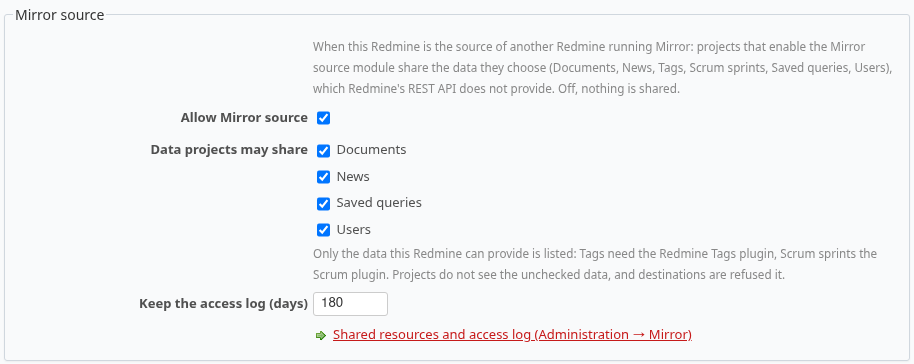
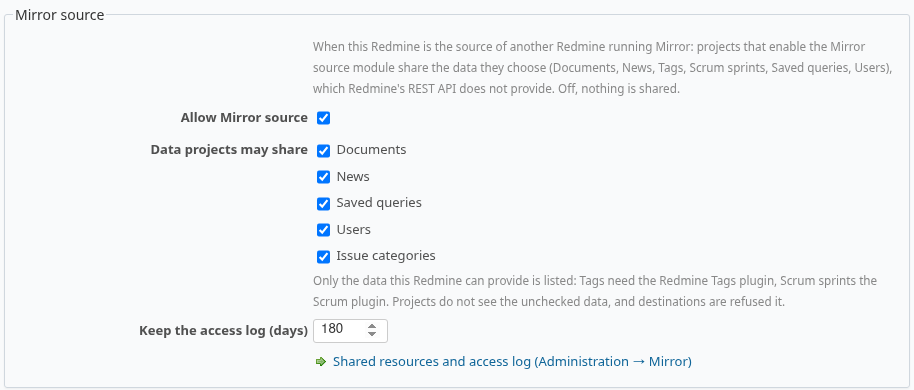
Offer one-click fixes for the settings a configuration still needs
Once the source references are read, the Connection tab and the Mirror page
checklist offer, under the Redmine permission each one uses: enable a project module
a selected Mirror module needs, or unselect those Mirror modules; enable mapped
trackers or a mapped custom field in the project; select the Members, Issue
categories or Versions module when the source project has such data.

The catalog now keeps the source project's enabled modules and a count of its
members, categories and versions. A Mirror module whose module is not enabled in the
source project is marked in the module list and can only be unselected (Agile data
comes from another plugin there and is not flagged).

Changed region(s): [[0.1532, 0.0907, 0.9803, 0.8764], [0.0, 0.0302, 1.0, 0.0604], [0.337, 0.9066, 0.7659, 0.9368]]

diff --git a/test/integration/mirror_setup_fixes_test.rb b/test/integration/mirror_setup_fixes_test.rb
@@ -1,0 +1,108 @@
+# frozen_string_literal: true
+# File: redmine_mirror/test/integration/mirror_setup_fixes_test.rb
+#
+# Redmine Mirror - modular project import and asynchronous replication.
+# SPDX-License-Identifier: GPL-2.0-or-later
+#
+# This program is free software: you can redistribute it and/or modify it
+# under the terms of the GNU General Public License as published by the
+# Free Software Foundation, either version 2 of the License, or (at your
+# option) any later version.
+#
+# This program is distributed in the hope that it will be useful,
+# but WITHOUT ANY WARRANTY; without even the implied warranty of
+# MERCHANTABILITY or FITNESS FOR A PARTICULAR PURPOSE. See LICENSE for details.
+# The Mirror tab of the project settings: sub-tabs, mappings and permissions.
+
+require_relative "../test_helper"
+class MirrorSetupFixesTest < Redmine::IntegrationTest
+  fixtures :projects, :users, :email_addresses, :roles, :members, :member_roles, :enabled_modules, :trackers,
+    :projects_trackers, :issue_statuses, :enumerations, :custom_fields, :custom_fields_projects, :custom_fields_trackers
+
+  def setup
+    @project = Project.find(1)
+    @project.enable_module!(:mirror)
+    @project.disable_module!(:documents)
+    @setting = MirrorProjectSetting.new(project: @project, source_url: "https://source.example/redmine", source_project_id: 12)
+    @setting.selected_modules = %w[issue_tracking wiki documents]
+    @setting.api_key = "private-api-key"
+    # The source project has no wiki; it has members, and categories this account cannot list.
+    @setting.source_catalog = { "tracker" => { "1" => "Bug", "2" => "Remote tracker" }, "tracker_used" => %w[1 2],
+      "source_modules" => %w[issue_tracking documents], "source_inventory" => { "project_members" => 3, "issue_categories" => nil, "project_versions" => 0 } }
+    @setting.catalog_status = "ready"
+    @setting.save!
+    # Tracker 3 (Support request), mapped, then no longer used by the project.
+    @project.mirror_reference_mappings.create!(reference_type: "tracker", source_id: 2, mode: "existing", destination_id: 3)
+    @project.update!(tracker_ids: [1, 2])
+  end
+
+  def fix(params)
+    post "/projects/ecookbook/mirror/settings/fix", params: params.merge(back_url: "/projects/ecookbook/settings/mirror")
+  end
+
+  def test_the_connection_tab_proposes_one_click_fixes
+    log_user("admin", "admin")
+    get "/projects/ecookbook/settings/mirror"
+    assert_response :success
+    assert_select "#mirror-checklist li", text: /Wiki module is not enabled in the source project/
+    assert_select "#mirror-checklist form.mirror-fix-form input[name=target][value=wiki]"
+    assert_select "#mirror-checklist li", text: /Documents module is disabled on this project/ do
+      assert_select "button[data-fix=enable_module], input[data-fix=enable_module]"
+    end
+    assert_select "#mirror-checklist li", text: /Support request/
+    assert_select "#mirror-checklist li", text: /Members \(3\)/
+    assert_select "#mirror-checklist li", text: /Issue categories/, count: 0
+    assert_select "label.mirror-module-source-off", text: /Wiki/
+  end
+
+  def test_fixes_enable_unselect_and_select
+    log_user("admin", "admin")
+    fix(fix: "enable_module", target: "documents")
+    assert_redirected_to "/projects/ecookbook/settings/mirror"
+    assert @project.reload.module_enabled?(:documents)
+    fix(fix: "unselect_module", target: "wiki")
+    assert_equal [302, nil, "Successful update."], [response.status, flash[:error], flash[:notice]]
+    assert_equal %w[users issue_tracking documents], @setting.reload.selected_modules
+    fix(fix: "enable_trackers")
+    assert_includes @project.reload.tracker_ids, 3
+    fix(fix: "select_module", target: "project_members")
+    assert_includes @setting.reload.selected_modules, "project_members"
+    assert_equal "pending", @setting.catalog_status
+    # A module unknown, or one that would leave nothing to import.
+    fix(fix: "select_module", target: "nothing")
+    assert flash[:error]
+    fix(fix: "enable_module", target: "boards")
+    assert flash[:error]
+  end
+
+  def test_mapped_fields_are_enabled_in_the_project
+    field = IssueCustomField.create!(name: "Remote only", field_format: "string", is_for_all: false, trackers: Tracker.all, projects: [@project])
+    @setting.update!(selected_modules: %w[issue_tracking issue_custom_fields], source_catalog: @setting.source_catalog.merge("custom_field" => { "40" => "Remote only" }))
+    @project.mirror_reference_mappings.create!(reference_type: "custom_field", source_id: 40, mode: "existing", destination_id: field.id)
+    # The field was later removed from the project.
+    field.projects.delete(@project)
+    log_user("admin", "admin")
+    get "/projects/ecookbook/settings/mirror"
+    assert_select "#mirror-checklist input[name=target][value='#{field.id}']"
+    fix(fix: "enable_custom_field", target: field.id)
+    assert_includes @project.reload.issue_custom_field_ids, field.id
+    other = IssueCustomField.create!(name: "Not mapped", field_format: "string", is_for_all: false)
+    fix(fix: "enable_custom_field", target: other.id)
+    assert flash[:error]
+    refute_includes @project.reload.issue_custom_field_ids, other.id
+  end
+
+  # Each fix needs the permission Redmine itself asks for.
+  def test_fixes_need_the_redmine_permissions
+    Role.find(1).add_permission!(:manage_mirror)
+    Role.find(1).remove_permission!(:edit_project)
+    Role.find(1).remove_permission!(:select_project_modules)
+    log_user("jsmith", "jsmith")
+    fix(fix: "enable_trackers")
+    assert_response 403
+    refute_includes @project.reload.tracker_ids, 3
+    fix(fix: "enable_module", target: "documents")
+    assert_response 403
+    refute @project.reload.module_enabled?(:documents)
+  end
+end

diff --git a/app/helpers/mirror_helper.rb b/app/helpers/mirror_helper.rb
@@ -317,10 +317,23 @@ module MirrorHelper
     catalog = setting.source_catalog
     mapped = project.mirror_reference_mappings.to_a
     ai_config = MirrorAiConfig.current
+    source_modules = catalog["source_modules"]
+    checked_modules = []
     setting.adapters.each do |adapter|
-      if adapter.project_module && !project.module_enabled?(adapter.project_module)
-        items << { text: l(:text_mirror_project_module_disabled, module: l_or_humanize(adapter.project_module, prefix: "project_module_")),
-          actions: [[l(:label_mirror_enable_project_module), User.current.allowed_to?(:select_project_modules, project) && settings_project_path(project, tab: "modules")]] }
+      name = adapter.project_module
+      if name && !checked_modules.include?(name)
+        checked_modules << name
+        label = l_or_humanize(name, prefix: "project_module_")
+        source_name = adapter.source_project_module
+        if source_modules && source_name && !source_modules.include?(source_name.to_s)
+          items << { text: l(:text_mirror_source_module_disabled, module: label), actions: [],
+            buttons: [[l(:button_mirror_unselect_modules), { fix: "unselect_module", target: name }, manager]] }
+        elsif !project.module_enabled?(name)
+          items << { text: l(:text_mirror_project_module_disabled, module: label),
+            actions: [[l(:label_mirror_enable_project_module), User.current.allowed_to?(:select_project_modules, project) && settings_project_path(project, tab: "modules")]],
+            buttons: [[l(:button_mirror_enable_project_module_now), { fix: "enable_module", target: name }, User.current.allowed_to?(:select_project_modules, project)],
+                      [l(:button_mirror_unselect_modules), { fix: "unselect_module", target: name }, manager]] }
+        end
       end
       adapter.mapping_tables.each do |table|
         next if table.respond_to?(:unmapped_allowed?) && table.unmapped_allowed?(setting)
@@ -338,6 +351,15 @@ module MirrorHelper
         end
       end
     end
+    editor = User.current.allowed_to?(:edit_project, project)
+    # Trackers the source issues use, mapped to a local tracker this project does not use.
+    trackers = mapped.select { |row| row.reference_type == "tracker" && row.mode == "existing" && !project.tracker_ids.include?(row.destination_id) &&
+      (catalog["tracker_used"].nil? || catalog["tracker_used"].include?(row.source_id.to_s)) }.map(&:destination_id).uniq
+    if trackers.any? && setting.selected_modules.include?("issue_tracking")
+      items << { text: l(:text_mirror_trackers_disabled, names: Tracker.where(id: trackers).sorted.map(&:name).join(", ")),
+        actions: [[l(:label_mirror_guide_enable_in_project), editor && settings_project_path(project, tab: "issues")]],
+        buttons: [[l(:button_mirror_enable_trackers), { fix: "enable_trackers" }, editor]] }
+    end
     # Fields mapped to a local field that this project does not use.
     if setting.selected_modules.include?("issue_custom_fields")
       enabled = project.all_issue_custom_fields.map(&:id)
@@ -345,10 +367,23 @@ module MirrorHelper
         field = IssueCustomField.find_by(id: row.destination_id)
         next unless field
         items << { text: l(:text_mirror_guide_field_disabled, name: field.name),
-          actions: [[l(:label_mirror_guide_enable_in_project), User.current.allowed_to?(:edit_project, project) && settings_project_path(project, tab: "issues")]] }
+          actions: [[l(:label_mirror_guide_enable_in_project), editor && settings_project_path(project, tab: "issues")]],
+          buttons: [[l(:button_mirror_enable_field), { fix: "enable_custom_field", target: field.id }, editor]] }
       end
     end
-    items.each { |item| item[:actions] = item[:actions].select(&:last).uniq(&:first) }
+    # Data the source project has for a module not selected: members (when this project
+    # lets the user manage them), categories and versions.
+    catalog.fetch("source_inventory", {}).each do |key, count|
+      adapter = RedmineMirror::REGISTRY[key]
+      next unless count.to_i.positive? && adapter&.available? && !setting.selected_modules.include?(key)
+      next if key == "project_members" && !User.current.allowed_to?(:manage_members, project)
+      items << { text: l(:text_mirror_source_has_data, module: l(adapter.label), count: count), actions: [],
+        buttons: [[l(:button_mirror_select_module), { fix: "select_module", target: key }, manager]] }
+    end
+    items.each do |item|
+      item[:actions] = item[:actions].select(&:last).uniq(&:first)
+      item[:buttons] = Array(item[:buttons]).select(&:last).map { |label, params, _| [label, params] }
+    end
   end
 
   # Administration pages that create a missing local reference.

diff --git a/app/controllers/mirror_settings_controller.rb b/app/controllers/mirror_settings_controller.rb
@@ -105,6 +105,52 @@ class MirrorSettingsController < ApplicationController
     redirect_to configuration_path
   end
 
+  # One-click fixes of the checklist, each under the permission Redmine itself asks for:
+  # enable a project module, or unselect the Mirror modules that need it; enable the
+  # mapped trackers or a mapped field in this project; select a module the source has
+  # data for. Back to where the person came from.
+  def fix_setup
+    return render_404 unless @setting.persisted?
+    case params[:fix]
+    when "enable_module"
+      name = params[:target].to_s
+      return deny_access unless User.current.allowed_to?(:select_project_modules, @project)
+      raise RedmineMirror::Error, "Unknown project module" unless @setting.adapters.any? { |adapter| adapter.project_module.to_s == name }
+      @project.enable_module!(name)
+    when "unselect_module"
+      name = params[:target].to_s
+      kept = @setting.selected_modules.select do |key|
+        RedmineMirror::REGISTRY[key] && RedmineMirror::REGISTRY.resolve([key]).none? { |adapter| adapter.project_module.to_s == name }
+      end
+      raise RedmineMirror::Error, l(:text_mirror_nothing_left_to_import) if kept.empty?
+      @setting.selected_modules = kept
+      @setting.save!
+    when "enable_trackers"
+      return deny_access unless User.current.allowed_to?(:edit_project, @project)
+      used = @setting.source_catalog["tracker_used"]
+      ids = @project.mirror_reference_mappings.where(reference_type: "tracker", mode: "existing").select { |row| used.nil? || used.include?(row.source_id.to_s) }.map(&:destination_id)
+      @project.trackers << (Tracker.where(id: ids).to_a - @project.trackers.to_a)
+    when "enable_custom_field"
+      return deny_access unless User.current.allowed_to?(:edit_project, @project)
+      field = IssueCustomField.find_by(id: params[:target])
+      raise RedmineMirror::Error, "Unknown custom field" unless field && @project.mirror_reference_mappings.where(reference_type: "custom_field", destination_id: field.id).exists?
+      @project.issue_custom_fields << field unless field.is_for_all? || @project.issue_custom_fields.include?(field)
+    when "select_module"
+      key = params[:target].to_s
+      raise RedmineMirror::Error, "Unknown module" unless RedmineMirror::REGISTRY[key]&.available? && RedmineMirror::REGISTRY[key].selectable?
+      @setting.selected_modules = @setting.selected_modules + [key]
+      @setting.save!
+      @setting.request_catalog_refresh!
+    else
+      return render_404
+    end
+    flash[:notice] = l(:notice_successful_update)
+    redirect_back_or_default configuration_path
+  rescue RedmineMirror::Error, ActiveRecord::RecordInvalid => error
+    flash[:error] = error.message
+    redirect_back_or_default configuration_path
+  end
+
   # Resolve the adapter and table from this project’s configuration, then validate
   # every submitted remote ID and local selection before committing the batch.
   def update_mappings

diff --git a/lib/redmine_mirror/source_catalog.rb b/lib/redmine_mirror/source_catalog.rb
@@ -25,8 +25,12 @@ module RedmineMirror
     # Preserve field metadata separately from labels for compatibility checks.
     # progress, when given, receives (step, steps, module key, records read so far).
     def fetch(progress: nil)
-      @client.get("projects/#{Integer(@project_id)}.json")
+      project = @client.get("projects/#{Integer(@project_id)}.json", "include" => "enabled_modules").fetch("project", {})
       tables = {}
+      # The source project's modules, so that the form and the checklist can tell which
+      # Mirror modules have data there; and what unselected modules would bring.
+      tables["source_modules"] = project["enabled_modules"].map { |entry| entry["name"].to_s } if project["enabled_modules"].is_a?(Array)
+      tables["source_inventory"] = inventory
       used = Hash.new { |hash, key| hash[key] = [] }
       formats = Hash.new(0)
       statistics = {}
@@ -90,6 +94,20 @@ module RedmineMirror
     end
 
     private
+
+    # Counts of members, categories and versions of the source project, each nil when
+    # the account cannot list them (or anything else goes wrong: it is only a hint). One
+    # small request each.
+    INVENTORY = { "project_members" => "memberships", "issue_categories" => "issue_categories", "project_versions" => "versions" }.freeze
+
+    def inventory
+      INVENTORY.to_h do |module_key, collection|
+        body = @client.get("projects/#{Integer(@project_id)}/#{collection}.json", "limit" => 1)
+        [module_key, (body["total_count"] || Array(body[collection]).size).to_i]
+      rescue StandardError
+        [module_key, nil]
+      end
+    end
 
     # Login, names, email and company of the source users, when the source project shares
     # them (Mirror source); else why not, shown in the Users tab. Never sent to AI.

diff --git a/test/documentation/configuration_test.rb b/test/documentation/configuration_test.rb
@@ -435,6 +435,25 @@ class MirrorConfigurationDocumentationTest < ApplicationSystemTestCase
     MirrorDefaultMapping.delete_all
   end
 
+
+  # Settings to complete after the connection, with their one-click fixes; restored
+  # afterwards for the mirror copy guide.
+  def test_22_setup_fixes
+    setting = project.mirror_project_setting
+    catalog = setting.source_catalog
+    setting.update!(source_catalog: catalog.merge("source_inventory" => { "project_members" => 4, "issue_categories" => 1, "project_versions" => 2 }))
+    project.disable_module!(:time_tracking)
+    visit "/projects/#{PROJECT}/settings/mirror"
+    assert_selector "#mirror-checklist .mirror-fix-form", minimum: 2
+    screenshot "44-setup-fixes", "#mirror-checklist"
+    click_button "Enable it in this project", match: :first
+    assert_selector "#flash_notice"
+    assert project.reload.module_enabled?(:time_tracking)
+  ensure
+    project.enable_module!(:time_tracking)
+    setting&.update!(source_catalog: catalog) if catalog
+  end
+
   FAKE_AI_SYNONYMS = { "New" => "To do", "In Progress" => "Doing", "Resolved" => "Done", "Feedback" => "Waiting for reply",
                        "Closed" => "Finished", "Rejected" => "Won't do" }.freeze
 

diff --git a/init.rb b/init.rb
@@ -38,7 +38,7 @@ Redmine::Plugin.register :redmine_mirror do
       permission :view_mirror, { mirror: [:index], mirror_synchronizations: [:show] }, read: true, require: :member
       permission :run_mirror, { mirror: [:index], mirror_synchronizations: [:show, :create, :cancel], mirror_conflicts: [:update] }, require: :member
       permission :manage_mirror, { projects: [:settings], mirror: [:index], mirror_synchronizations: [:show, :create, :cancel, :update],
-        mirror_conflicts: [:update], mirror_settings: [:show, :update_connection, :update_mappings, :refresh, :request_ai, :update_defaults, :apply_defaults] }, require: :member
+        mirror_conflicts: [:update], mirror_settings: [:show, :update_connection, :update_mappings, :refresh, :request_ai, :update_defaults, :apply_defaults, :fix_setup] }, require: :member
     end
   end
   # Mirror source, when this Redmine is a source: a project shares chosen data with Mirror

diff --git a/lib/redmine_mirror/adapters/agile.rb b/lib/redmine_mirror/adapters/agile.rb
@@ -77,6 +77,8 @@ module RedmineMirror
     class AgileSprints < Base
       def key; "agile_sprints"; end
       def project_module; :agile; end
+      # The source data comes from the Scrum plugin, whose module has another name.
+      def source_project_module; nil; end
       def phase; :references; end
       def available?; Agile.available?; end
       def selection_hint; :text_mirror_agile_source_hint; end
@@ -166,6 +168,8 @@ module RedmineMirror
     class AgileIssues < Base
       def key; "agile_issues"; end
       def project_module; :agile; end
+      # The source data comes from the Scrum plugin, whose module has another name.
+      def source_project_module; nil; end
       def phase; :history; end
       def dependencies; %w[issue_tracking agile_sprints]; end
       def available?; Agile.available?; end

diff --git a/config/routes.rb b/config/routes.rb
@@ -37,6 +37,7 @@ post "projects/:project_id/mirror/settings/modules/:module_key/ai/:table", to: "
 post "projects/:project_id/mirror/settings/users", to: "mirror_settings#create_users", as: "project_mirror_users"
 patch "projects/:project_id/mirror/settings/defaults", to: "mirror_settings#update_defaults", as: "project_mirror_defaults"
 post "projects/:project_id/mirror/settings/defaults/apply", to: "mirror_settings#apply_defaults", as: "project_mirror_defaults_apply"
+post "projects/:project_id/mirror/settings/fix", to: "mirror_settings#fix_setup", as: "project_mirror_fix"
 
 patch "projects/:project_id/mirror/schedule", to: "mirror_synchronizations#update", as: "project_mirror_schedule"
 post "projects/:project_id/mirror/synchronizations", to: "mirror_synchronizations#create", as: "project_mirror_enqueue"

diff --git a/lib/redmine_mirror/adapters/base.rb b/lib/redmine_mirror/adapters/base.rb
@@ -53,6 +53,12 @@ module RedmineMirror
         nil
       end
 
+      # Module the source project needs for this data, or nil when it cannot be told (data
+      # of another plugin there). The connection form and the checklist flag it.
+      def source_project_module
+        project_module
+      end
+
       # Locale key of a requirement shown next to the module in the connection form, or nil.
       def selection_hint
         nil

diff --git a/doc/CONFIGURATION.md b/doc/CONFIGURATION.md
@@ -141,6 +141,21 @@ take a few minutes on large projects. The page shows its progress and refreshes 
 it has finished. The URL and project cannot be changed afterwards. **Refresh source
 references** reloads them after new users, statuses or activities appear on the source.
 
+Once the references are read, the **Connection** tab lists what to settle, each with a
+one-click fix when your Redmine permissions allow it:
+
+- a project module a selected Mirror module needs (*Issue tracking*, *Wiki*,
+  *Documents*…): **Enable it in this project** (*Select project modules*), or **Unselect
+  the Mirror modules that need it**. A module not enabled in the source project has
+  nothing to import: only the second choice is offered, and the module list marks it
+  *(not enabled in the source project)*;
+- mapped trackers the project does not use: **Enable these trackers** (*Edit project*);
+- a mapped custom field the project does not use: **Enable it in this project**;
+- members, categories or versions on the source while their module is not selected:
+  **Select this module** (members only when you may manage this project's members).
+
+![Settings to complete](screenshots/configuration/44-setup-fixes.png)
+
 A red counter on a module tab gives the number of references it still has to map.
 
 ![Modules to map](screenshots/configuration/09-modules-to-map.png)

diff --git a/CHANGELOG.md b/CHANGELOG.md
@@ -41,6 +41,13 @@ MERCHANTABILITY or FITNESS FOR A PARTICULAR PURPOSE. See LICENSE for details.
   values of the project's enumeration issue fields, with status, sharing and position,
   through Mirror source (**Project enumerations** shared). Issue values and history,
   which are enumeration IDs, are translated by **Issue custom fields**.
+- **Settings to complete, in one click**: once the source references are read, the
+  **Connection** tab (and the checklist of the Mirror page) offers to enable a project
+  module a selected Mirror module needs or unselect those Mirror modules, enable mapped
+  trackers or a mapped custom field in the project, and select the Members, Issue
+  categories or Versions module when the source project has such data. Modules not
+  enabled in the source project are marked in the module list. Each fix needs the
+  Redmine permission it uses.
 
 ## 1.0.0-beta.35 — 2026-11-04
 
